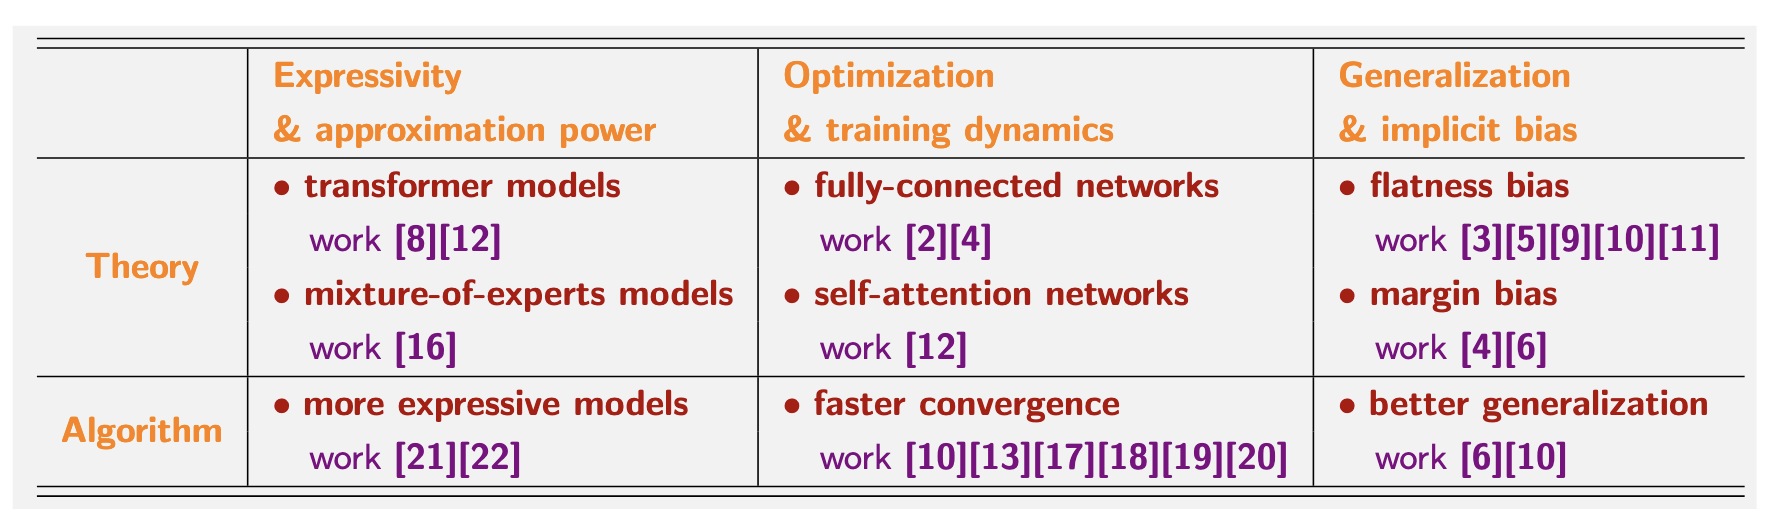
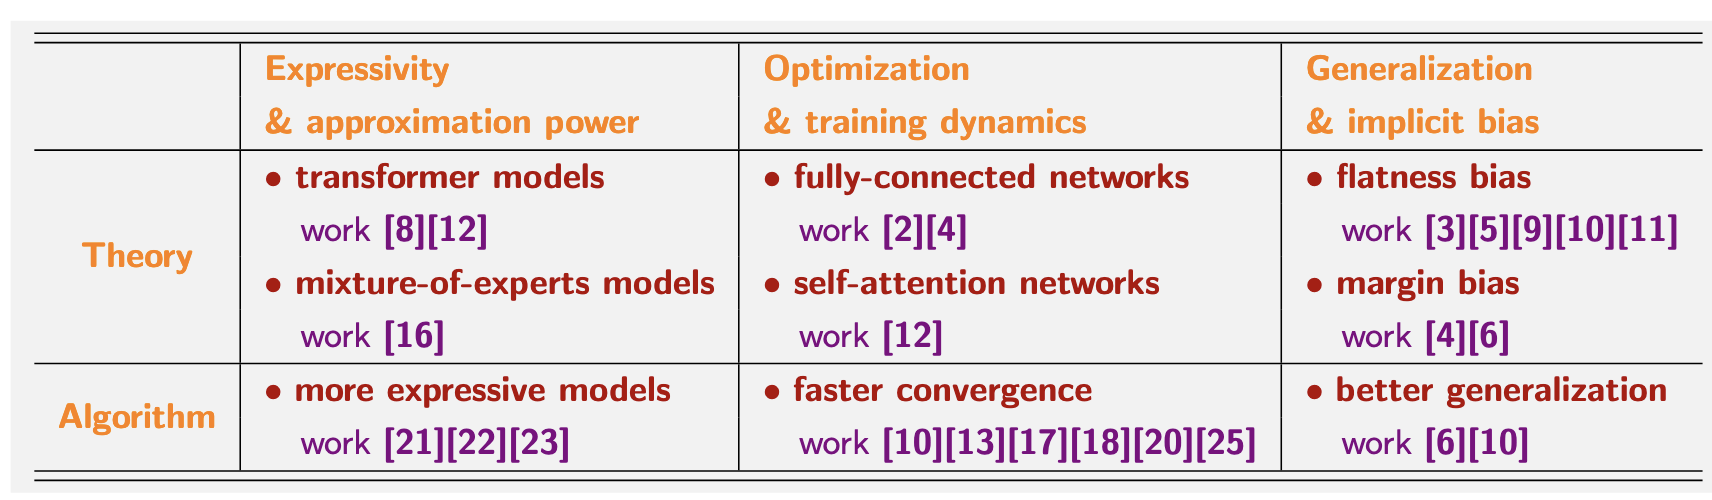
0910

diff --git a/index.html b/index.html
@@ -68,13 +68,25 @@ Training</b>)</p>
 <h2>Recent Publications and Preprints</h2>
 <p>* indicates equal contribution, † means project lead.</p>
 <ul>
+<li><p>[25] <a href="https://arxiv.org/abs/2608.28442"><b>Curvature-Conditioned Multiscale Momentum with Sphere Constraints for LLM Pretraining</b></a> <br />
+Shuchen Zhu, Yuxin Fang, <font color=sienna size=+0.5><b><b>Mingze Wang†</b></b></font>, Kun Yuan. <br />
+arXiv preprint, 1-50. Aug 2026.</p>
+</li>
+<li><p>[24] <a href="https://arxiv.org/abs/2608.21752"><b>Width-Independent Compressibility of Deep Neural Networks</b></a> <br />
+Hongyi Wang, <font color=sienna size=+0.5><b><b>Mingze Wang</b></b></font>, Liu Ziyin. <br />
+arXiv preprint, 1-28. Aug 2026.</p>
+</li>
+<li><p>[23] <a href="https://arxiv.org/abs/2608.12385"><b>Dual-Flow Transformers: Decoupling the Primary Prefill Path from Additional Decode Computation</b></a> <br />
+Liming Liu, <font color=sienna size=+0.5><b><b>Mingze Wang</b></b></font>, Tuo Zhao. <br />
+arXiv preprint, 1-19. Aug 2026.</p>
+</li>
 <li><p>[22] <a href="http://arxiv.org/abs/2605.26895"><b>Negligible in Size, Significant in Effect: On Scale Vectors in Large Language Models</b></a> <br />
-<font color=sienna size=+0.5><b><b>Mingze Wang†</b></b></font>, Shuchen Zhu, Yuxin Fang, Binghui Li, Kai Shen, Shu Zhong. <br />
-under review, 1-36. May 2026.</p>
+<font color=sienna size=+0.5><b><b>Mingze Wang*†</b></b></font>, Shuchen Zhu*, Yuxin Fang, Binghui Li, Kai Shen, Shu Zhong. <br />
+under review, arXiv preprint, 1-36. May 2026.</p>
 </li>
 <li><p>[21] <a href="http://arxiv.org/abs/2605.26647"><b>More Expressive Feedforward Layers: Part I. Token-Adaptive Mixing of Activations</b></a> <br />
-<font color=sienna size=+0.5><b><b>Mingze Wang†</b></b></font>, Jinbo Wang, Yikuan Xia, Kai Shen, Shu Zhong. <br />
-under review, 1-31. May 2026.</p>
+<font color=sienna size=+0.5><b><b>Mingze Wang*†</b></b></font>, Jinbo Wang*, Yikuan Xia, Kai Shen, Shu Zhong. <br />
+under review, arXiv preprint, 1-31. May 2026.</p>
 </li>
 <li><p>[20] <a href="https://arxiv.org/abs/2602.22681"><b>Accelerating LLM Pre-training through Flat-Direction Dynamics Enhancement</b></a> <br />
 Shuchen Zhu, Rizhen Hu, <font color=sienna size=+0.5><b><b>Mingze Wang†</b></b></font>, Mou Sun, Xue Wang, Kun Yuan, Zaiwen Wen. <br />
@@ -138,7 +150,7 @@ Guanhua Huang, Yuchen Zhang, Zhe Li, Yongjian You, <font color=sienna size=+0.5>
 </li>
 <li><p>[5] <a href="https://arxiv.org/abs/2310.00692"><b>A Theoretical Analysis of Noise Geometry in Stochastic Gradient Descent</b></a> <br />
 <font color=sienna size=+0.5><b><b>Mingze Wang</b></b></font>, Lei Wu<br />
-<tt>NeurIPS 2023 Workshop on Mathematics of Modern Machine Learning</tt> (<font color=purple size=+0.5><b><b>NeurIPS 2023 - M3L</b></b></font>), 1-30.</p>
+<tt>Transactions on Machine Learning Research</tt> (<font color=purple size=+0.5><b><b>TMLR</b></b></font>), 1-30.</p>
 </li>
 <li><p>[4] <a href="https://arxiv.org/abs/2305.12467"><b>Understanding Multi-phase Optimization Dynamics and Rich Nonlinear Behaviors of ReLU Networks</b></a> <br />
 <font color=sienna size=+0.5><b><b>Mingze Wang†</b></b></font>, Chao Ma<br />

diff --git a/index_Chinese.html b/index_Chinese.html
@@ -77,6 +77,18 @@
 <h2>发表论文</h2>
 <p>* 表示平等贡献，† 表示主导项目.</p>
 <ul>
+<li><p>[25] <a href="https://arxiv.org/abs/2608.28442"><b>Curvature-Conditioned Multiscale Momentum with Sphere Constraints for LLM Pretraining</b></a> <br />
+Shuchen Zhu (朱书辰), Yuxin Fang (方羽新), <font color=sienna size=+0.5><b><b>Mingze Wang†</b></b></font> (王铭泽), Kun Yuan (袁坤). <br />
+arXiv preprint, 1-50. Aug 2026.</p>
+</li>
+<li><p>[24] <a href="https://arxiv.org/abs/2608.21752"><b>Width-Independent Compressibility of Deep Neural Networks</b></a> <br />
+Hongyi Wang, <font color=sienna size=+0.5><b><b>Mingze Wang</b></b></font> (王铭泽), Liu Ziyin (刘子寅). <br />
+arXiv preprint, 1-28. Aug 2026.</p>
+</li>
+<li><p>[23] <a href="https://arxiv.org/abs/2608.12385"><b>Dual-Flow Transformers: Decoupling the Primary Prefill Path from Additional Decode Computation</b></a> <br />
+Liming Liu (刘力铭), <font color=sienna size=+0.5><b><b>Mingze Wang</b></b></font> (王铭泽), Tuo Zhao (赵拓). <br />
+arXiv preprint, 1-19. Aug 2026.</p>
+</li>
 <li><p>[22] <a href="http://arxiv.org/abs/2605.26895"><b>Negligible in Size, Significant in Effect: On Scale Vectors in Large Language Models</b></a> <br />
 <font color=sienna size=+0.5><b><b>Mingze Wang†</b></b></font> (王铭泽), Shuchen Zhu (朱书辰), Yuxin Fang (方羽新),  Binghui Li (李柄辉), Kai Shen (沈锴), Shu Zhong (钟书). <br />
 under review, 1-36. May 2026.</p>

diff --git a/MENU.html b/MENU.html
@@ -19,7 +19,7 @@ Home                <a href="index.html">index.html</a>
 </p>
 <div id="footer">
 <div id="footer-text">
-Page generated 2026-07-10 10:30:58 CST, by <a href="http://jemdoc.jaboc.net/">jemdoc</a>.
+Page generated 2026-09-10 10:53:06 CST, by <a href="http://jemdoc.jaboc.net/">jemdoc</a>.
 </div>
 </div>
 </div>
